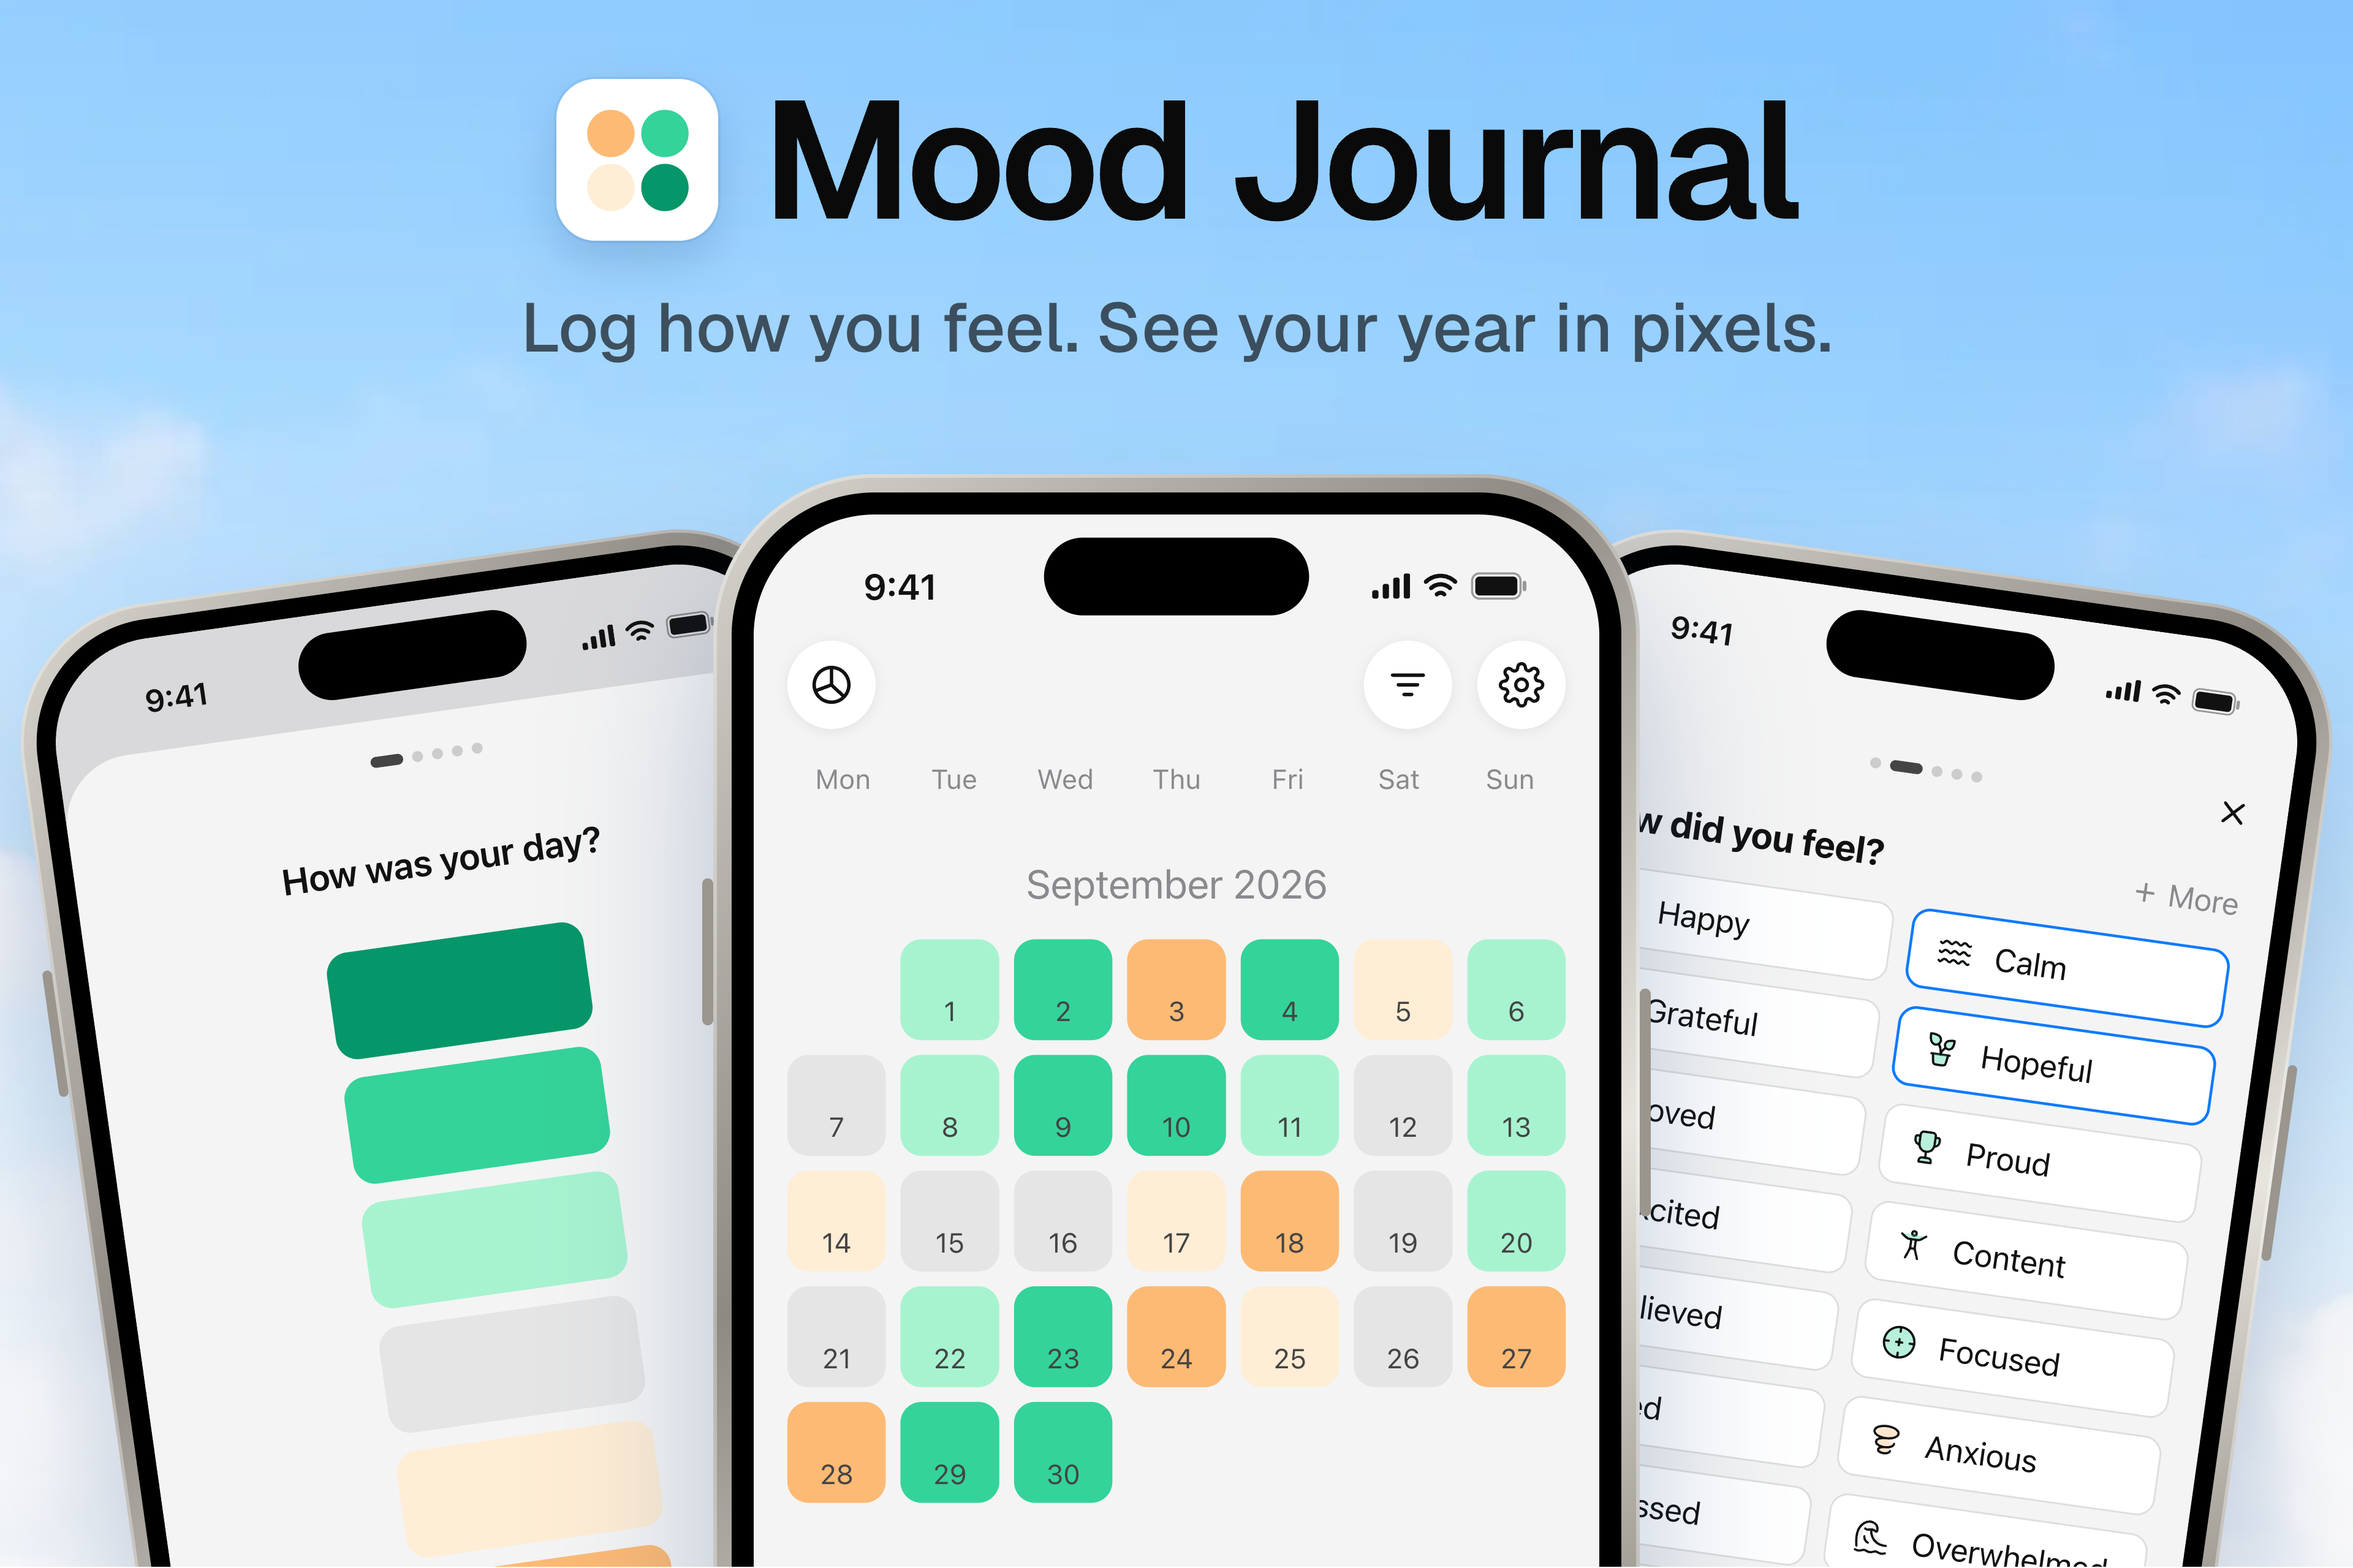
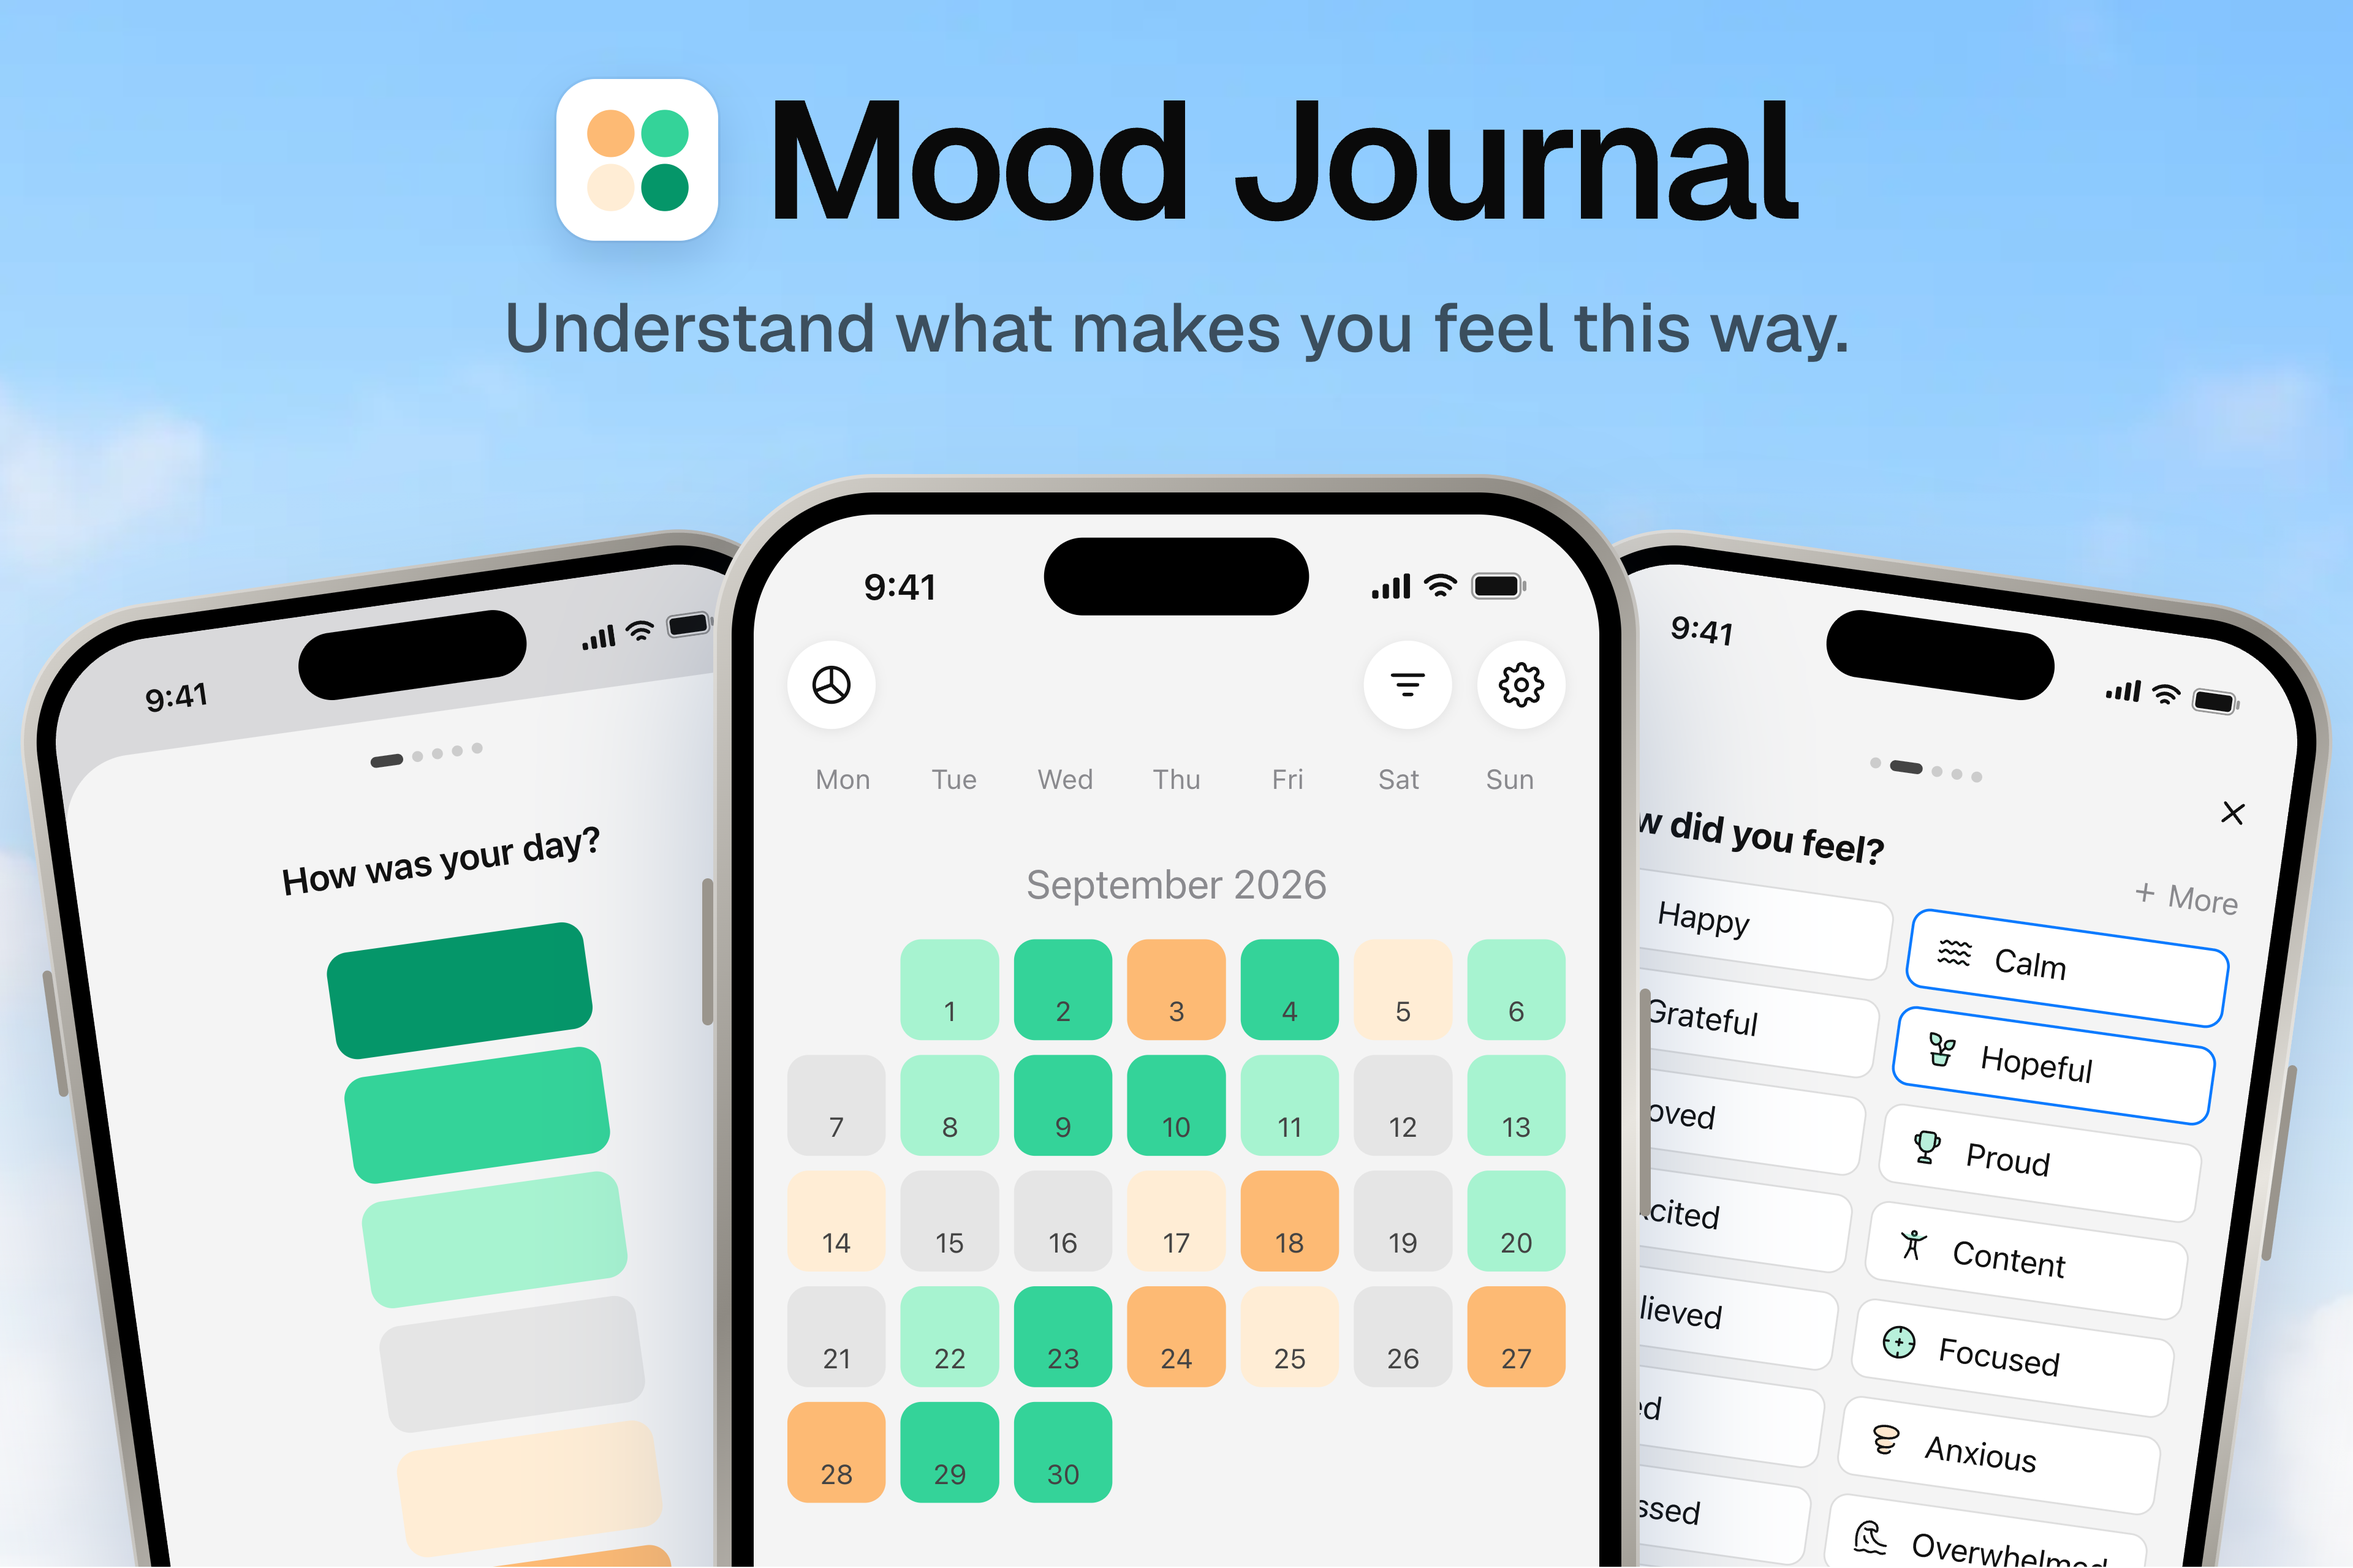
docs(store-screenshots): lead the search results image with the vision line

Changed region(s): [[0.2188, 0.1875, 0.7812, 0.25]]

diff --git a/docs/store-screenshots/index.html b/docs/store-screenshots/index.html
@@ -190,7 +190,7 @@ radial-gradient(1.4px 1.4px at 18% 10%,#fff,transparent),radial-gradient(1px 1px
  </div><div class="lab"><b>Product page header</b> 21:9, 3840x1646. Pixy icon + "Pixy Mood Journal" on top, phones pushed down. Calendar in front, mood logger and year in pixels behind, phones run off the bottom edge.</div></div>
  <div><div class="cv search" data-cv="search">
   <h4 class="ih" style="top:30px;font-size:68px"><svg viewBox="0 0 1024 1024"><rect width="1024" height="1024" fill="#fff"/><circle cx="345" cy="345" r="150" fill="#fdba74"/><circle cx="687" cy="345" r="150" fill="#34d399"/><circle cx="345" cy="687" r="150" fill="#ffedd5"/><circle cx="687" cy="687" r="150" fill="#059669"/></svg>Mood Journal</h4>
-  <div class="sub" style="top:106px;font-size:28px;font-weight:500">Log how you feel. See your year in pixels.</div>
+  <div class="sub" style="top:106px;font-size:28px;font-weight:500">Understand what makes you feel this way.</div>
   <div class="phA" style="top:232px;left:17%;transform:translateX(-50%) rotate(-8deg) scale(1.3);z-index:1;"><div class="bz"><div class="sc" data-app="mood" data-args=''></div></div></div>
   <div class="phA" style="top:232px;left:83%;transform:translateX(-50%) rotate(8deg) scale(1.3);z-index:1;"><div class="bz"><div class="sc" data-app="emotions" data-args=''></div></div></div>
   <div class="phA" style="top:194px;transform:translateX(-50%) scale(1.5);z-index:2;"><div class="bz"><div class="sc" data-app="calendar" data-args=''></div></div></div>
@@ -203,7 +203,7 @@ radial-gradient(1.4px 1.4px at 18% 10%,#fff,transparent),radial-gradient(1px 1px
   <div class="phA" style="top:96px;left:auto;right:-190px;transform:rotate(7deg) scale(1.25);z-index:1;"><div class="bz"><div class="sc" data-app="year" data-args=''></div></div></div>
  </div><div class="lab"><b>Google Play feature graphic</b> 1024x500 (rendered 2x, downsampled). Pixy Mood Journal lockup + headline left (no price, rating, or download claims), calendar and year in pixels right.</div></div>
 </div></main>
-<script src="https://unpkg.com/lucide@0.460.0/dist/umd/lucide.min.js"></script><script src="emotion-icons.js?v=1792961119"></script><script src="appscreens.js?v=1792961119"></script><script>
+<script src="https://unpkg.com/lucide@0.460.0/dist/umd/lucide.min.js"></script><script src="emotion-icons.js?v=1792964198"></script><script src="appscreens.js?v=1792964198"></script><script>
 document.head.insertAdjacentHTML('beforeend','<style>'+APP.css+'</style>');
 document.querySelectorAll('[data-app]').forEach(el=>{window.PIXY_OS=el.closest('.android-set')?'android':'ios';const a=(el.dataset.args||'').split(',').filter(Boolean);el.innerHTML=APP.render(el.dataset.app,a[0]||undefined,a[1]==='dark')});window.PIXY_OS='ios';
 document.querySelectorAll('[data-card]').forEach(el=>el.innerHTML='<div class="ps">'+APP.card(el.dataset.card)+'</div>');

diff --git a/docs/store-screenshots/build.py b/docs/store-screenshots/build.py
@@ -369,7 +369,7 @@ CREATIVE = f"""
  </div><div class="lab"><b>Product page header</b> 21:9, 3840x1646. Pixy icon + "Pixy Mood Journal" on top, phones pushed down. Calendar in front, mood logger and year in pixels behind, phones run off the bottom edge.</div></div>
  <div><div class="cv search" data-cv="search">
   <h4 class="ih" style="top:30px;font-size:68px">{PIXY_ICON}Mood Journal</h4>
-  <div class="sub" style="top:106px;font-size:28px;font-weight:500">Log how you feel. See your year in pixels.</div>
+  <div class="sub" style="top:106px;font-size:28px;font-weight:500">Understand what makes you feel this way.</div>
   {phone('mood', 232, 'left:17%;transform:translateX(-50%) rotate(-8deg) scale(1.3);z-index:1;')}
   {phone('emotions', 232, 'left:83%;transform:translateX(-50%) rotate(8deg) scale(1.3);z-index:1;')}
   {phone('calendar', 194, 'transform:translateX(-50%) scale(1.5);z-index:2;')}
